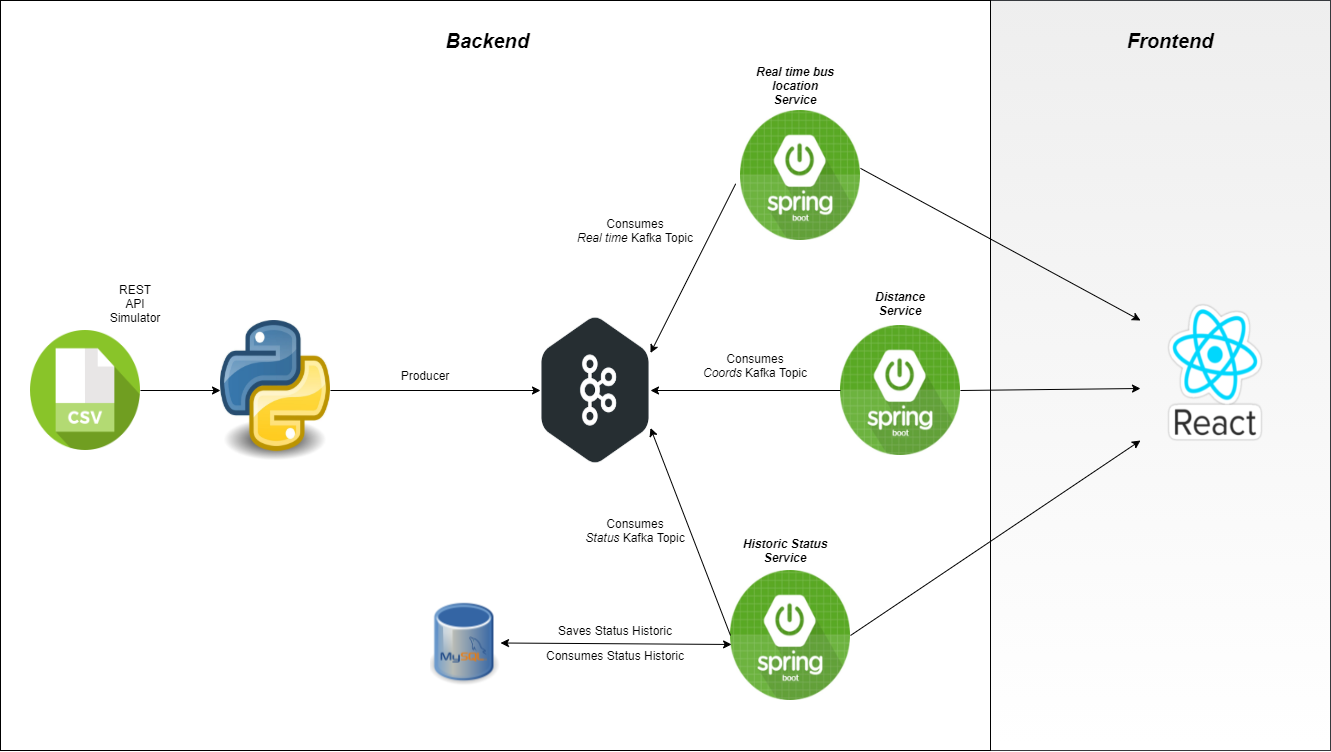
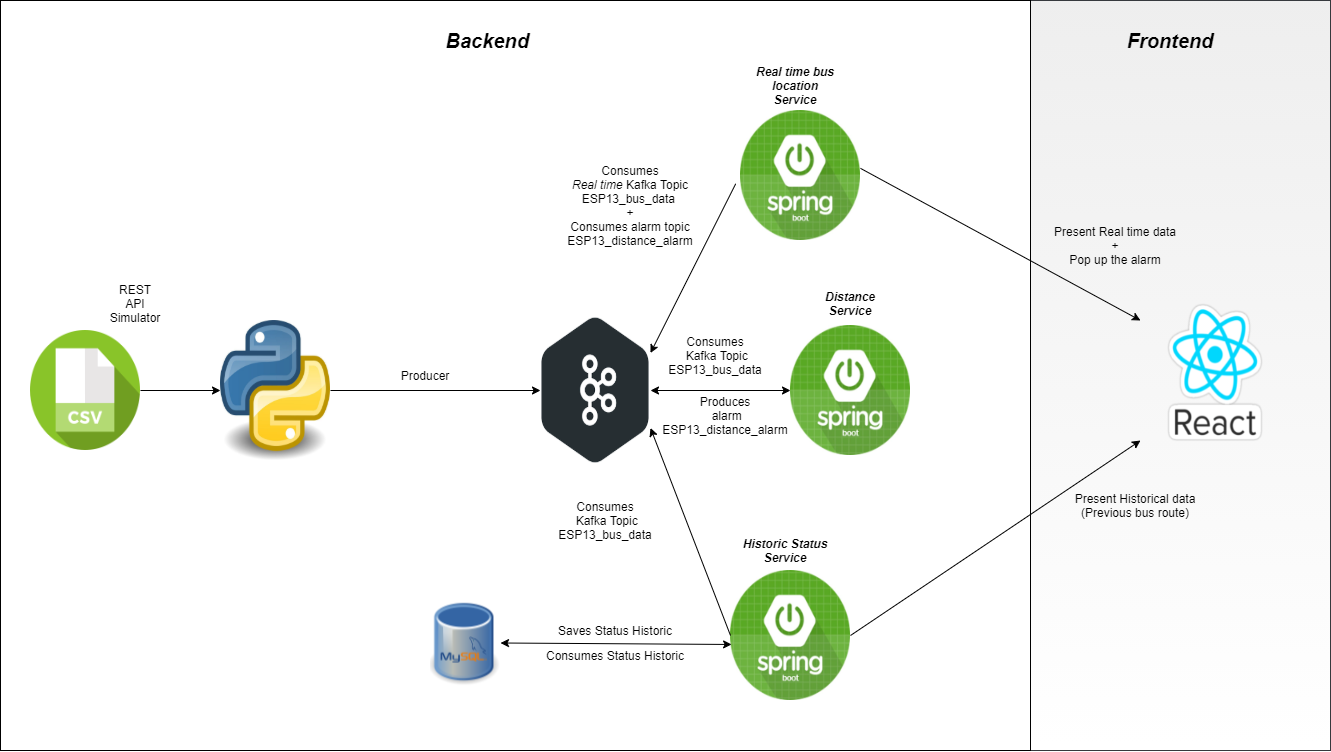
final

diff --git a/index.html b/index.html
@@ -52,34 +52,16 @@
               <li><a class="nav-link scrollto active" href="#hero">Home</a></li>
               <li><a class="nav-link scrollto" href="#about">About</a></li>
               <li><a class="nav-link scrollto" href="#services">Team</a></li>
-              <li><a class="nav-link scrollto " href="#features">Vision</a></li>
+              <li><a class="nav-link scrollto " href="#cenarios">Cenarios</a></li>
+              <li><a class="nav-link scrollto " href="#features">Use cases</a></li>
               <li><a class="nav-link scrollto" href="#clients">Logistics</a></li>
-              <li><a class="nav-link scrollto" href="#portfolio">Portfolio</a></li>
-              <li><a class="nav-link scrollto" href="#pricing">Arquitecture</a></li>
-
-              <!--<li class="dropdown"><a href="#"><span>Drop Down</span> <i class="bi bi-chevron-down"></i></a>
-                <ul>
-                  <li><a href="#">Drop Down 1</a></li>
-                  <li class="dropdown"><a href="#"><span>Deep Drop Down</span> <i class="bi bi-chevron-right"></i></a>
-                    <ul>
-                      <li><a href="#">Deep Drop Down 1</a></li>
-                      <li><a href="#">Deep Drop Down 2</a></li>
-                      <li><a href="#">Deep Drop Down 3</a></li>
-                      <li><a href="#">Deep Drop Down 4</a></li>
-                      <li><a href="#">Deep Drop Down 5</a></li>
-                    </ul>
-                  </li>
-                  <li><a href="#">Drop Down 2</a></li>
-                  <li><a href="#">Drop Down 3</a></li>
-                  <li><a href="#">Drop Down 4</a></li>
-                </ul>
-              </li>-->
-              <li><a class="nav-link scrollto" href="#contact">Contact</a></li>
+              <li><a class="nav-link scrollto" href="#runtime">Runtime</a></li>
+              <li><a class="nav-link scrollto" href="#arqu">Arquitecture</a></li>
+              <li><a class="nav-link scrollto" href="#deployment">Deployments</a></li>
+              <li><a class="nav-link scrollto" href="#timesheet">Timesheet</a></li>
             </ul>
             <i class="bi bi-list mobile-nav-toggle"></i>
           </nav><!-- .navbar -->
-
-          <a href="#about" class="get-started-btn scrollto">Get Started</a>
         </div>
       </div>
 
@@ -94,8 +76,6 @@
         <div class="col-xl-8">
           <h1>BitBusTracker</h1>
           <h2>We are a team of Software Engineering at the Aveiro University </h2>
-          <h5 class="text-light">Site is being constructed</h5>
-          <!--<a href="https://www.youtube.com/watch?v=jDDaplaOz7Q" class="glightbox play-btn mb-4"></a>-->
         </div>
       </div>
     </div>
@@ -103,7 +83,7 @@
 
   <main id="main">
       <!-- ========================================================================================================================= -->
-      <section id="about_proj" class="services">
+      <section id="about" class="services">
         <div class="container">
 
           <div class="section-title">
@@ -125,7 +105,7 @@
       </section><!-- End Services Section -->
 
       <!-- ======= About Us Section ======= -->
-    <section id="about" class="pricing">
+    <section id="about_us" class="pricing">
       <div class="container">
 
         <div class="section-title">
@@ -135,29 +115,6 @@
           <p>This is the official site for our project BitBusTracker, in wich we are going to make a system that allows real
              time monitoring of the position of buses in the city of Porto, and present it in a real time interactive map application.</p>
         </div>
-
-        <!--<div class="row content">
-          <div class="col-lg-6">
-            <p>
-              Lorem ipsum dolor sit amet, consectetur adipiscing elit, sed do eiusmod tempor incididunt ut labore et dolore
-              magna aliqua.
-            </p>
-            <ul>
-              <li><i class="ri-check-double-line"></i> Ullamco laboris nisi ut aliquip ex ea commodo consequat</li>
-              <li><i class="ri-check-double-line"></i> Duis aute irure dolor in reprehenderit in voluptate velit</li>
-              <li><i class="ri-check-double-line"></i> Ullamco laboris nisi ut aliquip ex ea commodo consequat</li>
-            </ul>
-          </div>
-          <div class="col-lg-6 pt-4 pt-lg-0">
-            <p>
-              Ullamco laboris nisi ut aliquip ex ea commodo consequat. Duis aute irure dolor in reprehenderit in voluptate
-              velit esse cillum dolore eu fugiat nulla pariatur. Excepteur sint occaecat cupidatat non proident, sunt in
-              culpa qui officia deserunt mollit anim id est laborum.
-            </p>
-            <a href="#" class="btn-learn-more">Learn More</a>
-          </div>
-        </div> -->
-
       </div>
     </section><!-- End About Us Section -->
 
@@ -432,125 +389,21 @@
 
     <!-- ========================================================================================================================= -->
     <!-- ======= Portfolio Section ======= -->
-    <section id="portfolio" class="portfolio">
+    <section id="runtime" class="portfolio">
       <div class="container">
 
         <div class="section-title">
           <h2>Runtime</h2>
-          <p>Updating...</p>
+          <div class="text-center img-fluid" style="box-shadow: #1c1f23; border-width: thin;" >
+            <img src="static/img/runtime.png" class="rounded" alt="...">
+          </div>
         </div>
-
-        <!--<div class="row">
-          <div class="col-lg-12 d-flex justify-content-center">
-            <ul id="portfolio-flters">
-              <li data-filter="*" class="filter-active">All</li>
-              <li data-filter=".filter-app">App</li>
-              <li data-filter=".filter-card">Card</li>
-              <li data-filter=".filter-web">Web</li>
-            </ul>
-          </div>
-        </div> -->
-
-        <!--<div class="row portfolio-container">
-
-          <div class="col-lg-4 col-md-6 portfolio-item filter-app">
-            <img src="assets/img/portfolio/portfolio-1.jpg" class="img-fluid" alt="">
-            <div class="portfolio-info">
-              <h4>App 1</h4>
-              <p>App</p>
-              <a href="assets/img/portfolio/portfolio-1.jpg" data-gallery="portfolioGallery" class="portfolio-lightbox preview-link" title="App 1"><i class="bx bx-plus"></i></a>
-              <a href="portfolio-details.html" class="details-link" title="More Details"><i class="bx bx-link"></i></a>
-            </div>
-          </div>
-
-          <div class="col-lg-4 col-md-6 portfolio-item filter-web">
-            <img src="assets/img/portfolio/portfolio-2.jpg" class="img-fluid" alt="">
-            <div class="portfolio-info">
-              <h4>Web 3</h4>
-              <p>Web</p>
-              <a href="assets/img/portfolio/portfolio-2.jpg" data-gallery="portfolioGallery" class="portfolio-lightbox preview-link" title="Web 3"><i class="bx bx-plus"></i></a>
-              <a href="portfolio-details.html" class="details-link" title="More Details"><i class="bx bx-link"></i></a>
-            </div>
-          </div>
-
-          <div class="col-lg-4 col-md-6 portfolio-item filter-app">
-            <img src="assets/img/portfolio/portfolio-3.jpg" class="img-fluid" alt="">
-            <div class="portfolio-info">
-              <h4>App 2</h4>
-              <p>App</p>
-              <a href="assets/img/portfolio/portfolio-3.jpg" data-gallery="portfolioGallery" class="portfolio-lightbox preview-link" title="App 2"><i class="bx bx-plus"></i></a>
-              <a href="portfolio-details.html" class="details-link" title="More Details"><i class="bx bx-link"></i></a>
-            </div>
-          </div> -->
-
-          <!--<div class="col-lg-4 col-md-6 portfolio-item filter-card">
-            <img src="assets/img/portfolio/portfolio-4.jpg" class="img-fluid" alt="">
-            <div class="portfolio-info">
-              <h4>Card 2</h4>
-              <p>Card</p>
-              <a href="assets/img/portfolio/portfolio-4.jpg" data-gallery="portfolioGallery" class="portfolio-lightbox preview-link" title="Card 2"><i class="bx bx-plus"></i></a>
-              <a href="portfolio-details.html" class="details-link" title="More Details"><i class="bx bx-link"></i></a>
-            </div>
-          </div>
-
-          <div class="col-lg-4 col-md-6 portfolio-item filter-web">
-            <img src="assets/img/portfolio/portfolio-5.jpg" class="img-fluid" alt="">
-            <div class="portfolio-info">
-              <h4>Web 2</h4>
-              <p>Web</p>
-              <a href="assets/img/portfolio/portfolio-5.jpg" data-gallery="portfolioGallery" class="portfolio-lightbox preview-link" title="Web 2"><i class="bx bx-plus"></i></a>
-              <a href="portfolio-details.html" class="details-link" title="More Details"><i class="bx bx-link"></i></a>
-            </div>
-          </div>
-
-          <div class="col-lg-4 col-md-6 portfolio-item filter-app">
-            <img src="assets/img/portfolio/portfolio-6.jpg" class="img-fluid" alt="">
-            <div class="portfolio-info">
-              <h4>App 3</h4>
-              <p>App</p>
-              <a href="assets/img/portfolio/portfolio-6.jpg" data-gallery="portfolioGallery" class="portfolio-lightbox preview-link" title="App 3"><i class="bx bx-plus"></i></a>
-              <a href="portfolio-details.html" class="details-link" title="More Details"><i class="bx bx-link"></i></a>
-            </div>
-          </div>
-
-          <div class="col-lg-4 col-md-6 portfolio-item filter-card">
-            <img src="assets/img/portfolio/portfolio-7.jpg" class="img-fluid" alt="">
-            <div class="portfolio-info">
-              <h4>Card 1</h4>
-              <p>Card</p>
-              <a href="assets/img/portfolio/portfolio-7.jpg" data-gallery="portfolioGallery" class="portfolio-lightbox preview-link" title="Card 1"><i class="bx bx-plus"></i></a>
-              <a href="portfolio-details.html" class="details-link" title="More Details"><i class="bx bx-link"></i></a>
-            </div>
-          </div>
-
-          <div class="col-lg-4 col-md-6 portfolio-item filter-card">
-            <img src="assets/img/portfolio/portfolio-8.jpg" class="img-fluid" alt="">
-            <div class="portfolio-info">
-              <h4>Card 3</h4>
-              <p>Card</p>
-              <a href="assets/img/portfolio/portfolio-8.jpg" data-gallery="portfolioGallery" class="portfolio-lightbox preview-link" title="Card 3"><i class="bx bx-plus"></i></a>
-              <a href="portfolio-details.html" class="details-link" title="More Details"><i class="bx bx-link"></i></a>
-            </div>
-          </div>
-
-          <div class="col-lg-4 col-md-6 portfolio-item filter-web">
-            <img src="assets/img/portfolio/portfolio-9.jpg" class="img-fluid" alt="">
-            <div class="portfolio-info">
-              <h4>Web 3</h4>
-              <p>Web</p>
-              <a href="assets/img/portfolio/portfolio-9.jpg" data-gallery="portfolioGallery" class="portfolio-lightbox preview-link" title="Web 3"><i class="bx bx-plus"></i></a>
-              <a href="portfolio-details.html" class="details-link" title="More Details"><i class="bx bx-link"></i></a>
-            </div>
-          </div>
-
-        </div> -->
-
       </div>
     </section><!-- End Portfolio Section -->
 
     <!-- ========================================================================================================================= -->
     <!-- ======= Arquitecture Section ======= -->
-    <section id="pricing" class="pricing">
+    <section id="arqu" class="pricing">
       <div class="container">
 
         <div class="section-title">
@@ -562,105 +415,67 @@
           <img src="static/img/diagram_v2.png" class="rounded" alt="...">
         </div>
 
-
         <div class="icon-box mt-5 mt-lg-0">
           <br>
-          <p>Rest API simulator (data simulator) is a python script that reads data collected from sensors stored into a csv file.
-            Every row of a csv file is readed every 1.5 second and sended to Kafka topic ESP13_bus_data.</p>
-          <p>Realtime service is Spring boot application that is credited with communicating with the frontend.
+          <br>
+          <p><b>Rest API simulator</b> (data simulator) is a python script that reads data collected from sensors stored into a csv file.
+            Every row of a csv file is readed every 1.5 second and sended to Kafka topic <b>ESP13_bus_data.</b></p>
+          <p><b>Realtime service</b> is Spring boot application that is credited with communicating with the frontend.
             Realtime service contains Kafka consumer who receives messages on topic ESP13_bus_data,
-            and if bus id of the obtained data is equal to id of desired busses getted from fronted,
-            service sends new obtained latitude and longitude.
-            Other purpose of Realtime service is that he is sending alarm to frontend getted in Kafka consumer on topic ESP13_distance_alarm.
+            and if bus id of the obtained data is equal to id of desired bus, getted from frontend,
+            then service sends the new obtained latitude and longitude.
+            Other purpose of Realtime service is that its sending alarm to frontend consumed in on a kafka topic "<b>ESP13_distance_alarm.</b>"
             Connection between frontend and realtime time service is obtained by using Server Sent Event.
           </p>
-          <p>Distance service is Spring boot application which serves to set an alarm for a particular bus.
-            Kafka consumer made within the service get messages on topic ESP13_bus_data. After receiving the data,
-            if it is data whose bus id matches the id for which the alarm is set,
-            the distance between the obtained location and the current location of the user is calculated.
-            If the location is less than 1000 meters, a message is sent using Kafka producer on the topic ESP13_distance_alarm.</p>
-          <p>Database service is Spring boot is an application whose purpose is to consume Kafka messages with the topic ESP13_bus_data
-            and save data within the database. In addition, this application contains routes from which it is possible to get all bus ids,
-            their routes and history data. Database is mysql database that contains historical data about positions of all busses and their speed.
-            The database is filled after each sent Kafka message that has the topic ESP13_bus_data.
+          <p><b>Distance service</b> is a Spring boot application which the main objective is to set an alarm for a particular bus.
+            Kafka consumer made within the service get messages on topic <b>ESP13_bus_data</b>. After receiving the data,
+            it calculates (if the data whose bus id matches the id for which the alarm is set)
+            the distance between the obtained location and the current location of the user.
+            If the location is less than 1000 meters, an alarm is produced to Kafka topic <b>ESP13_distance_alarm.</b></p>
+          <p><b>Database service</b> is Spring boot application whose purpose is to consume Kafka messages with the topic <b>ESP13_bus_data</b>
+            and save it into the database. In addition, this application contains routes from which it is possible to get all bus ids,
+            their routes and history data. Database is a mysql database that contains historical data about positions of all busses.
+            The database is filled up after each Kafka message is consumed on topic <b>ESP13_bus_data.</b>
           </p>
-          <p>Frontend is React application whose purpose is to present information about busses.
-            First screen contains table with all busses ids. For each bus it is possible to define alarm,
+          <p><b>Frontend</b> is React application whose purpose is to present information about buses.
+            First screen contains table with all buses ids. For each bus it is possible to define alarm,
             track his current position or see bus route. When user wants to track some bus current position or just see his route,
             application will open modal that will contain google map, on which with the help of react-google-map package and it functions
             will be presented routes, stop points and current location of bus.
           </p>
         </div>
-
-    <!---    <div class="row">
-
-          <div class="col-lg-4 col-md-6">
-            <div class="box">
-              <h3>Free</h3>
-              <h4><sup>$</sup>0<span> / month</span></h4>
-              <ul>
-                <li>Aida dere</li>
-                <li>Nec feugiat nisl</li>
-                <li>Nulla at volutpat dola</li>
-                <li class="na">Pharetra massa</li>
-                <li class="na">Massa ultricies mi</li>
-              </ul>
-              <div class="btn-wrap">
-                <a href="#" class="btn-buy">Buy Now</a>
-              </div>
-            </div>
-          </div>
-
-          <div class="col-lg-4 col-md-6 mt-4 mt-md-0">
-            <div class="box recommended">
-              <span class="recommended-badge">Recommended</span>
-              <h3>Business</h3>
-              <h4><sup>$</sup>19<span> / month</span></h4>
-              <ul>
-                <li>Aida dere</li>
-                <li>Nec feugiat nisl</li>
-                <li>Nulla at volutpat dola</li>
-                <li>Pharetra massa</li>
-                <li class="na">Massa ultricies mi</li>
-              </ul>
-              <div class="btn-wrap">
-                <a href="#" class="btn-buy">Buy Now</a>
-              </div>
-            </div>
-          </div>
-
-          <div class="col-lg-4 col-md-6 mt-4 mt-lg-0">
-            <div class="box">
-              <h3>Developer</h3>
-              <h4><sup>$</sup>29<span> / month</span></h4>
-              <ul>
-                <li>Aida dere</li>
-                <li>Nec feugiat nisl</li>
-                <li>Nulla at volutpat dola</li>
-                <li>Pharetra massa</li>
-                <li>Massa ultricies mi</li>
-              </ul>
-              <div class="btn-wrap">
-                <a href="#" class="btn-buy">Buy Now</a>
-              </div>
-            </div>
-          </div>
-
-        </div>
-        -->
-
       </div>
     </section><!-- End Pricing Section -->
 
 
     <!-- ========================================================================================================================= -->
     <!-- ======= Contact Section ======= -->
-    <section id="contact" class="contact">
+    <section id="deployment" class="contact">
       <div class="container">
 
         <div class="section-title">
-          <h2>Deployment</h2>
-          <!--<p>Magnam dolores commodi suscipit. Necessitatibus eius consequatur ex aliquid fuga eum quidem. Sit sint consectetur velit. Quisquam quos quisquam cupiditate. Et nemo qui impedit suscipit alias ea. Quia fugiat sit in iste officiis commodi quidem hic quas.</p>-->
+          <h2>Deployment and Tests</h2>
+          <br>
+          <div class="text-center img-fluid" style="box-shadow: #1c1f23; border-width: thin;" >
+            <img src="static/img/jenkins.png" class="rounded" alt="...">
+          </div>
+          <br>
+          <br>
+          <br>
+          <p>We did our tests using Cucumber through kafka to test our services, both Database Service and Realtime Service.
+            Using .feature file, we created our test scenarios, according to our needs.
+            Next, we join the steps from Cucumber with Kafka, using the following annotations:</p>
+          <br>
+          <p><b>@Given −</b></p>
+          <p>Describes the pre-requisite for the test to be executed.</p>
+          <br>
+          <p> <b>@When −</b></p>
+          <p>Defines the trigger point for the test scenario execution.</p>
+          <br>
+          <p> <b>@Then −</b> </p>
+          <p>Expected result<br>
+          Knowing this, we start doing our tests. For the database we use the tests to see if we were getting the expected data, for example, to see if we got proper values and not empty ones, to see if the services were being started and to see if a value was saved into the database after being inserted.
+            To use the database, we opted to use Mysql, as it was required to use an in-memory database. For this we added the dependency “mysql-connector-java.</p>
         </div>
       </div>
 
@@ -686,7 +501,6 @@
   <footer id="footer">
     <div class="container">
       <h3>BitBusTracker</h3>
-      <p>Et aut eum quis fuga eos sunt ipsa nihil. Labore corporis magni eligendi fuga maxime saepe commodi placeat.</p>
       <div class="social-links">
         <a href="#" class="twitter"><i class="bx bxl-twitter"></i></a>
         <a href="#" class="facebook"><i class="bx bxl-facebook"></i></a>
@@ -698,10 +512,6 @@
         &copy; Copyright <strong><span>BitBusTracker</span></strong>. All Rights Reserved
       </div>
       <div class="credits">
-        <!-- All the links in the footer should remain intact. -->
-        <!-- You can delete the links only if you purchased the pro version. -->
-        <!-- Licensing information: https://bootstrapmade.com/license/ -->
-        <!-- Purchase the pro version with working PHP/AJAX contact form: https://bootstrapmade.com/knight-simple-one-page-bootstrap-template/ -->
         Designed by <a href="https://bootstrapmade.com/">BootstrapMade</a>
       </div>
     </div>
